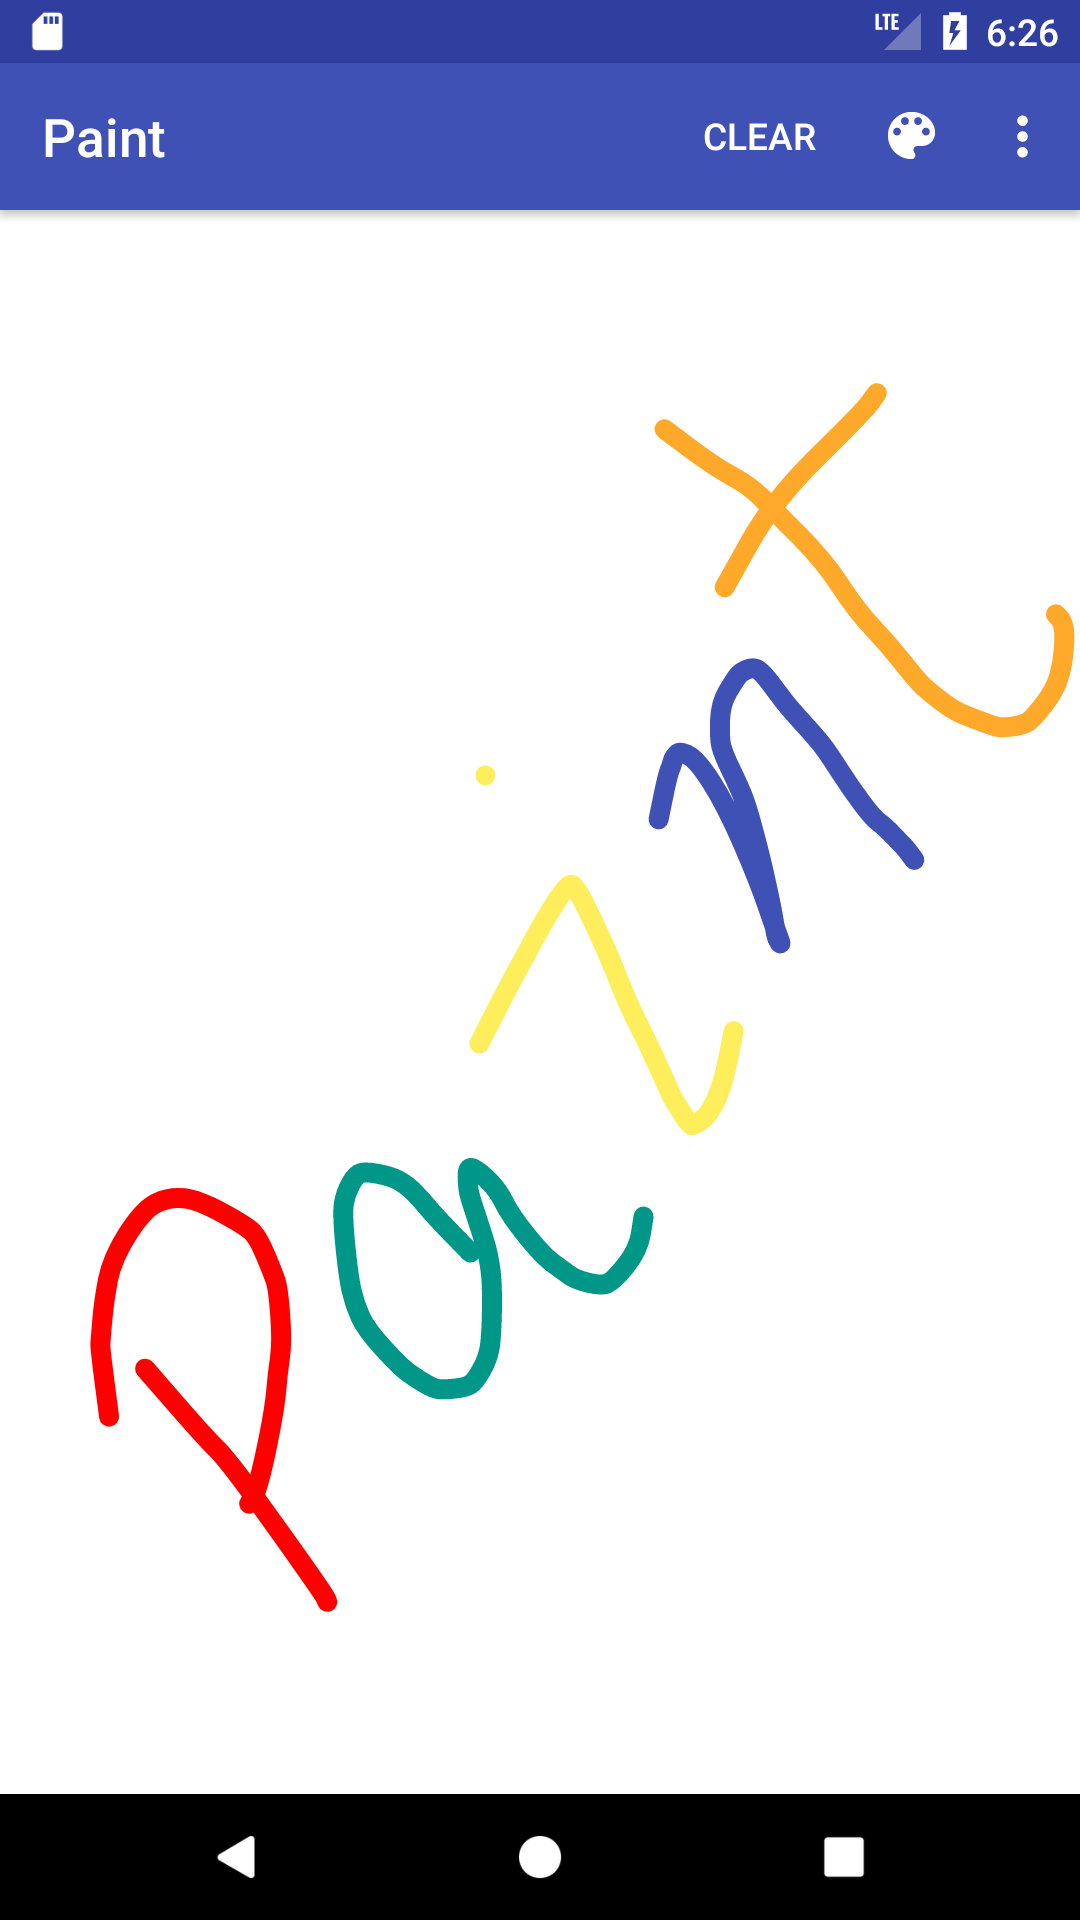
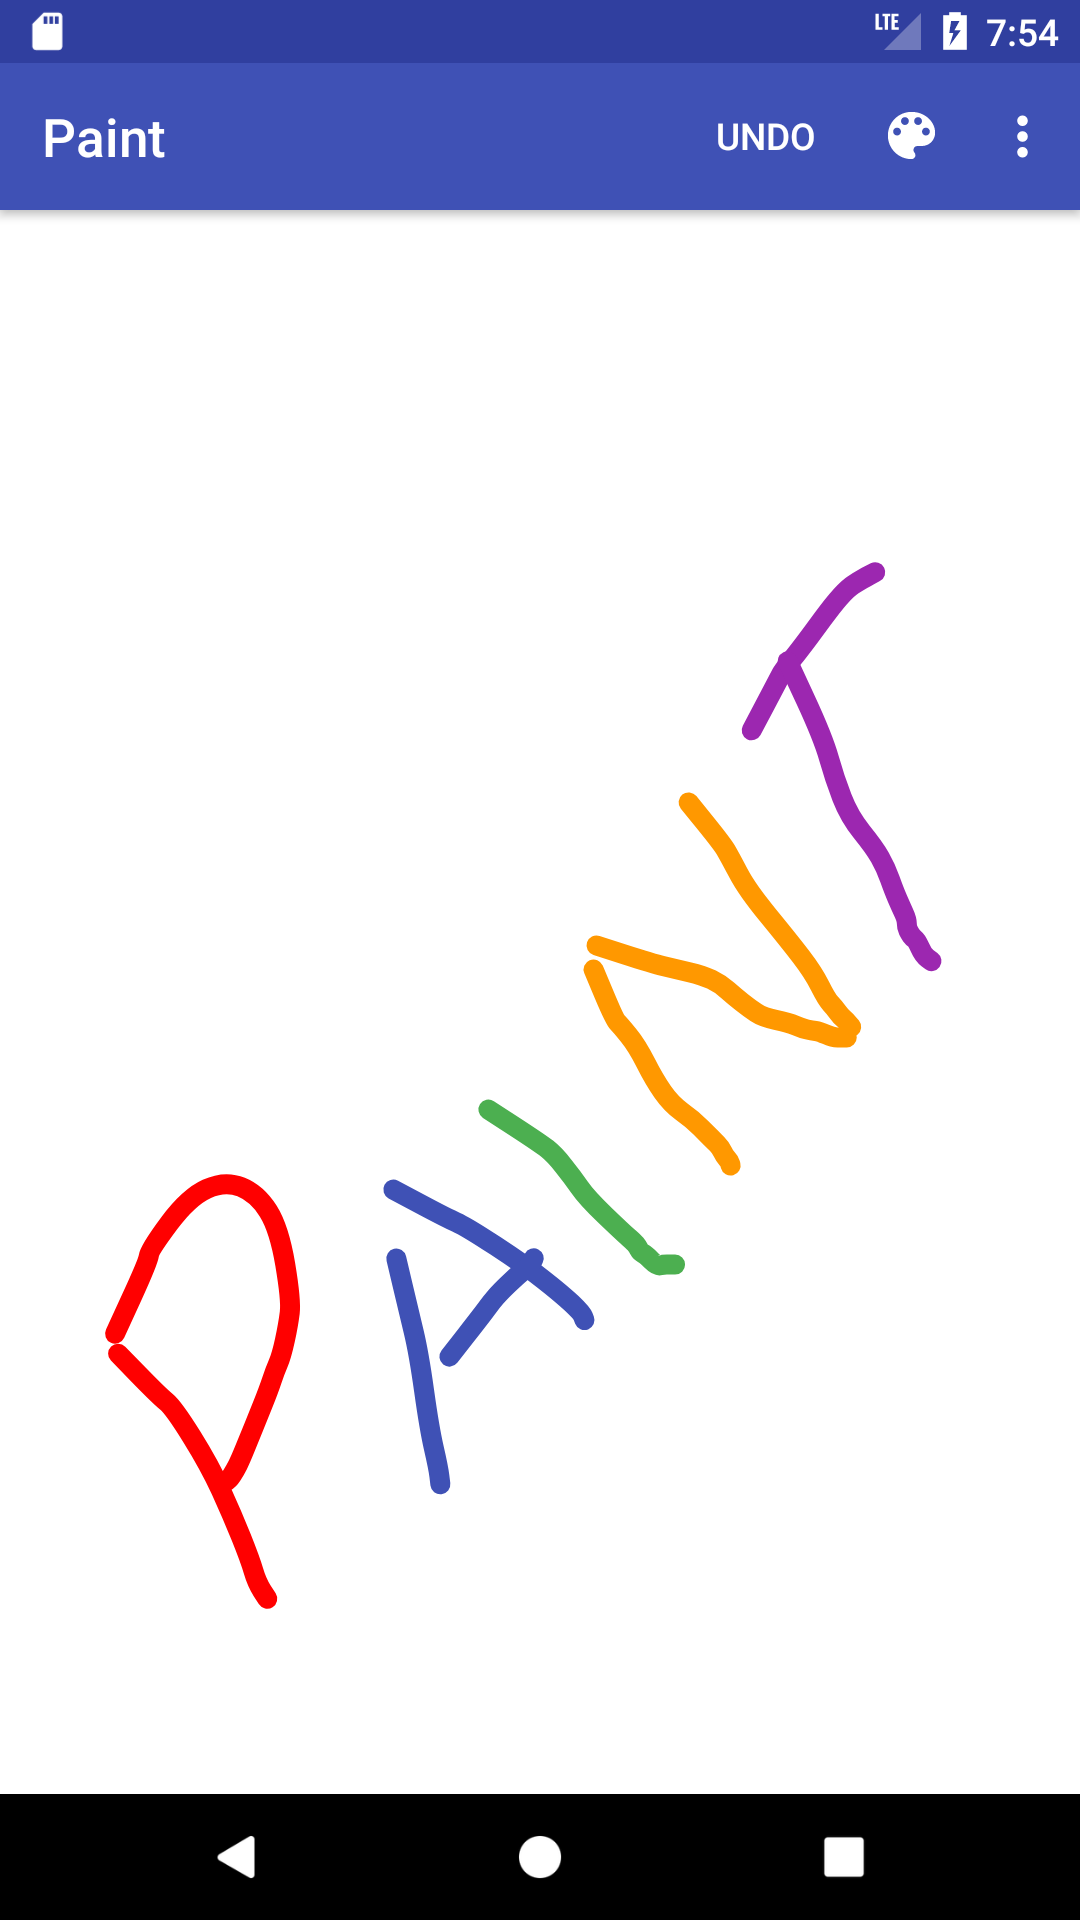
undo button

diff --git a/app/src/main/java/viveksrivastava/github/io/paint/PaintView.java b/app/src/main/java/viveksrivastava/github/io/paint/PaintView.java
@@ -42,9 +42,10 @@ public class PaintView extends View {
     private Canvas mCanvas;
     private Paint mBitmapPaint = new Paint(Paint.DITHER_FLAG);
 
-    public void setCurrentColor(int color){
-     currentColor=color;
-}
+    public void setCurrentColor(int color) {
+        currentColor = color;
+    }
+
     public PaintView(Context context) {
         this(context, null);
     }
@@ -91,6 +92,12 @@ public class PaintView extends View {
         blur = true;
     }
 
+    public void undo()
+
+    {
+        paths.remove(paths.size()-1);
+        invalidate();
+    }
     public void clear() {
         backgroundColor = DEFAULT_BG_COLOR;
         paths.clear();

diff --git a/app/src/main/java/viveksrivastava/github/io/paint/MainActivity.java b/app/src/main/java/viveksrivastava/github/io/paint/MainActivity.java
@@ -63,6 +63,9 @@ public class MainActivity extends AppCompatActivity implements ColorPickerDialog
             case R.id.clear:
                 paintView.clear();
                 return true;
+            case R.id.undo:
+                paintView.undo();
+                return true;
             case R.id.menu_color_picker_dialog:
                 ColorPickerDialog.newBuilder()
                         .setDialogType(ColorPickerDialog.TYPE_PRESETS)
